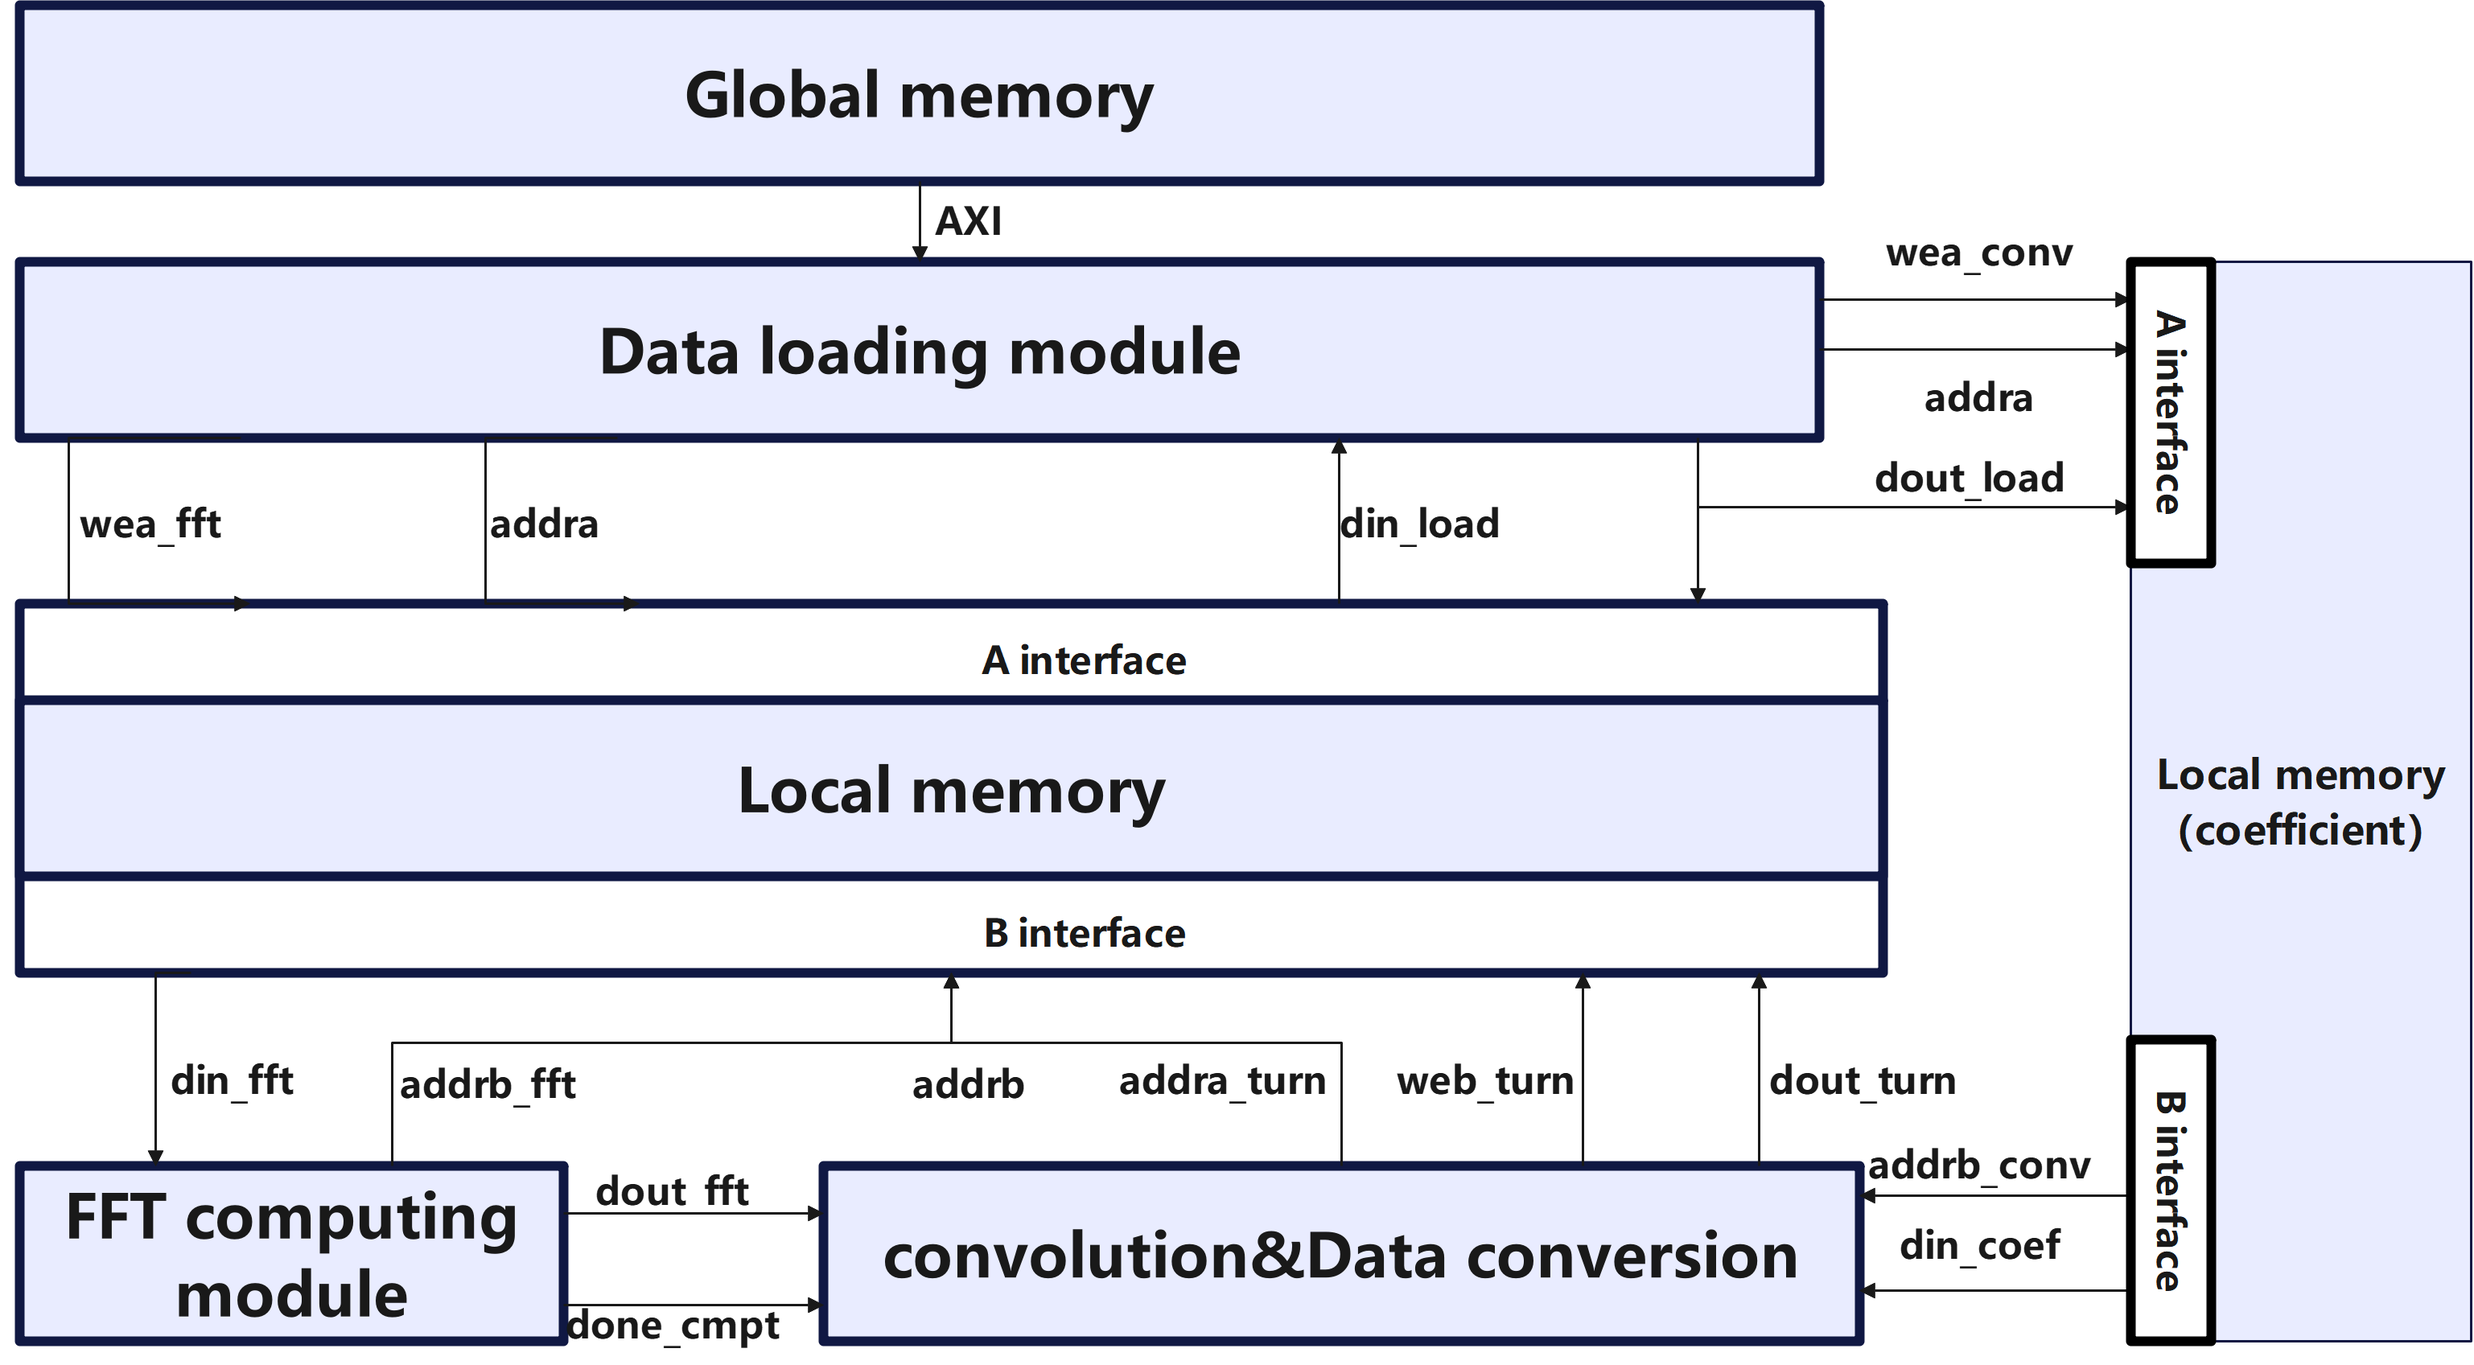
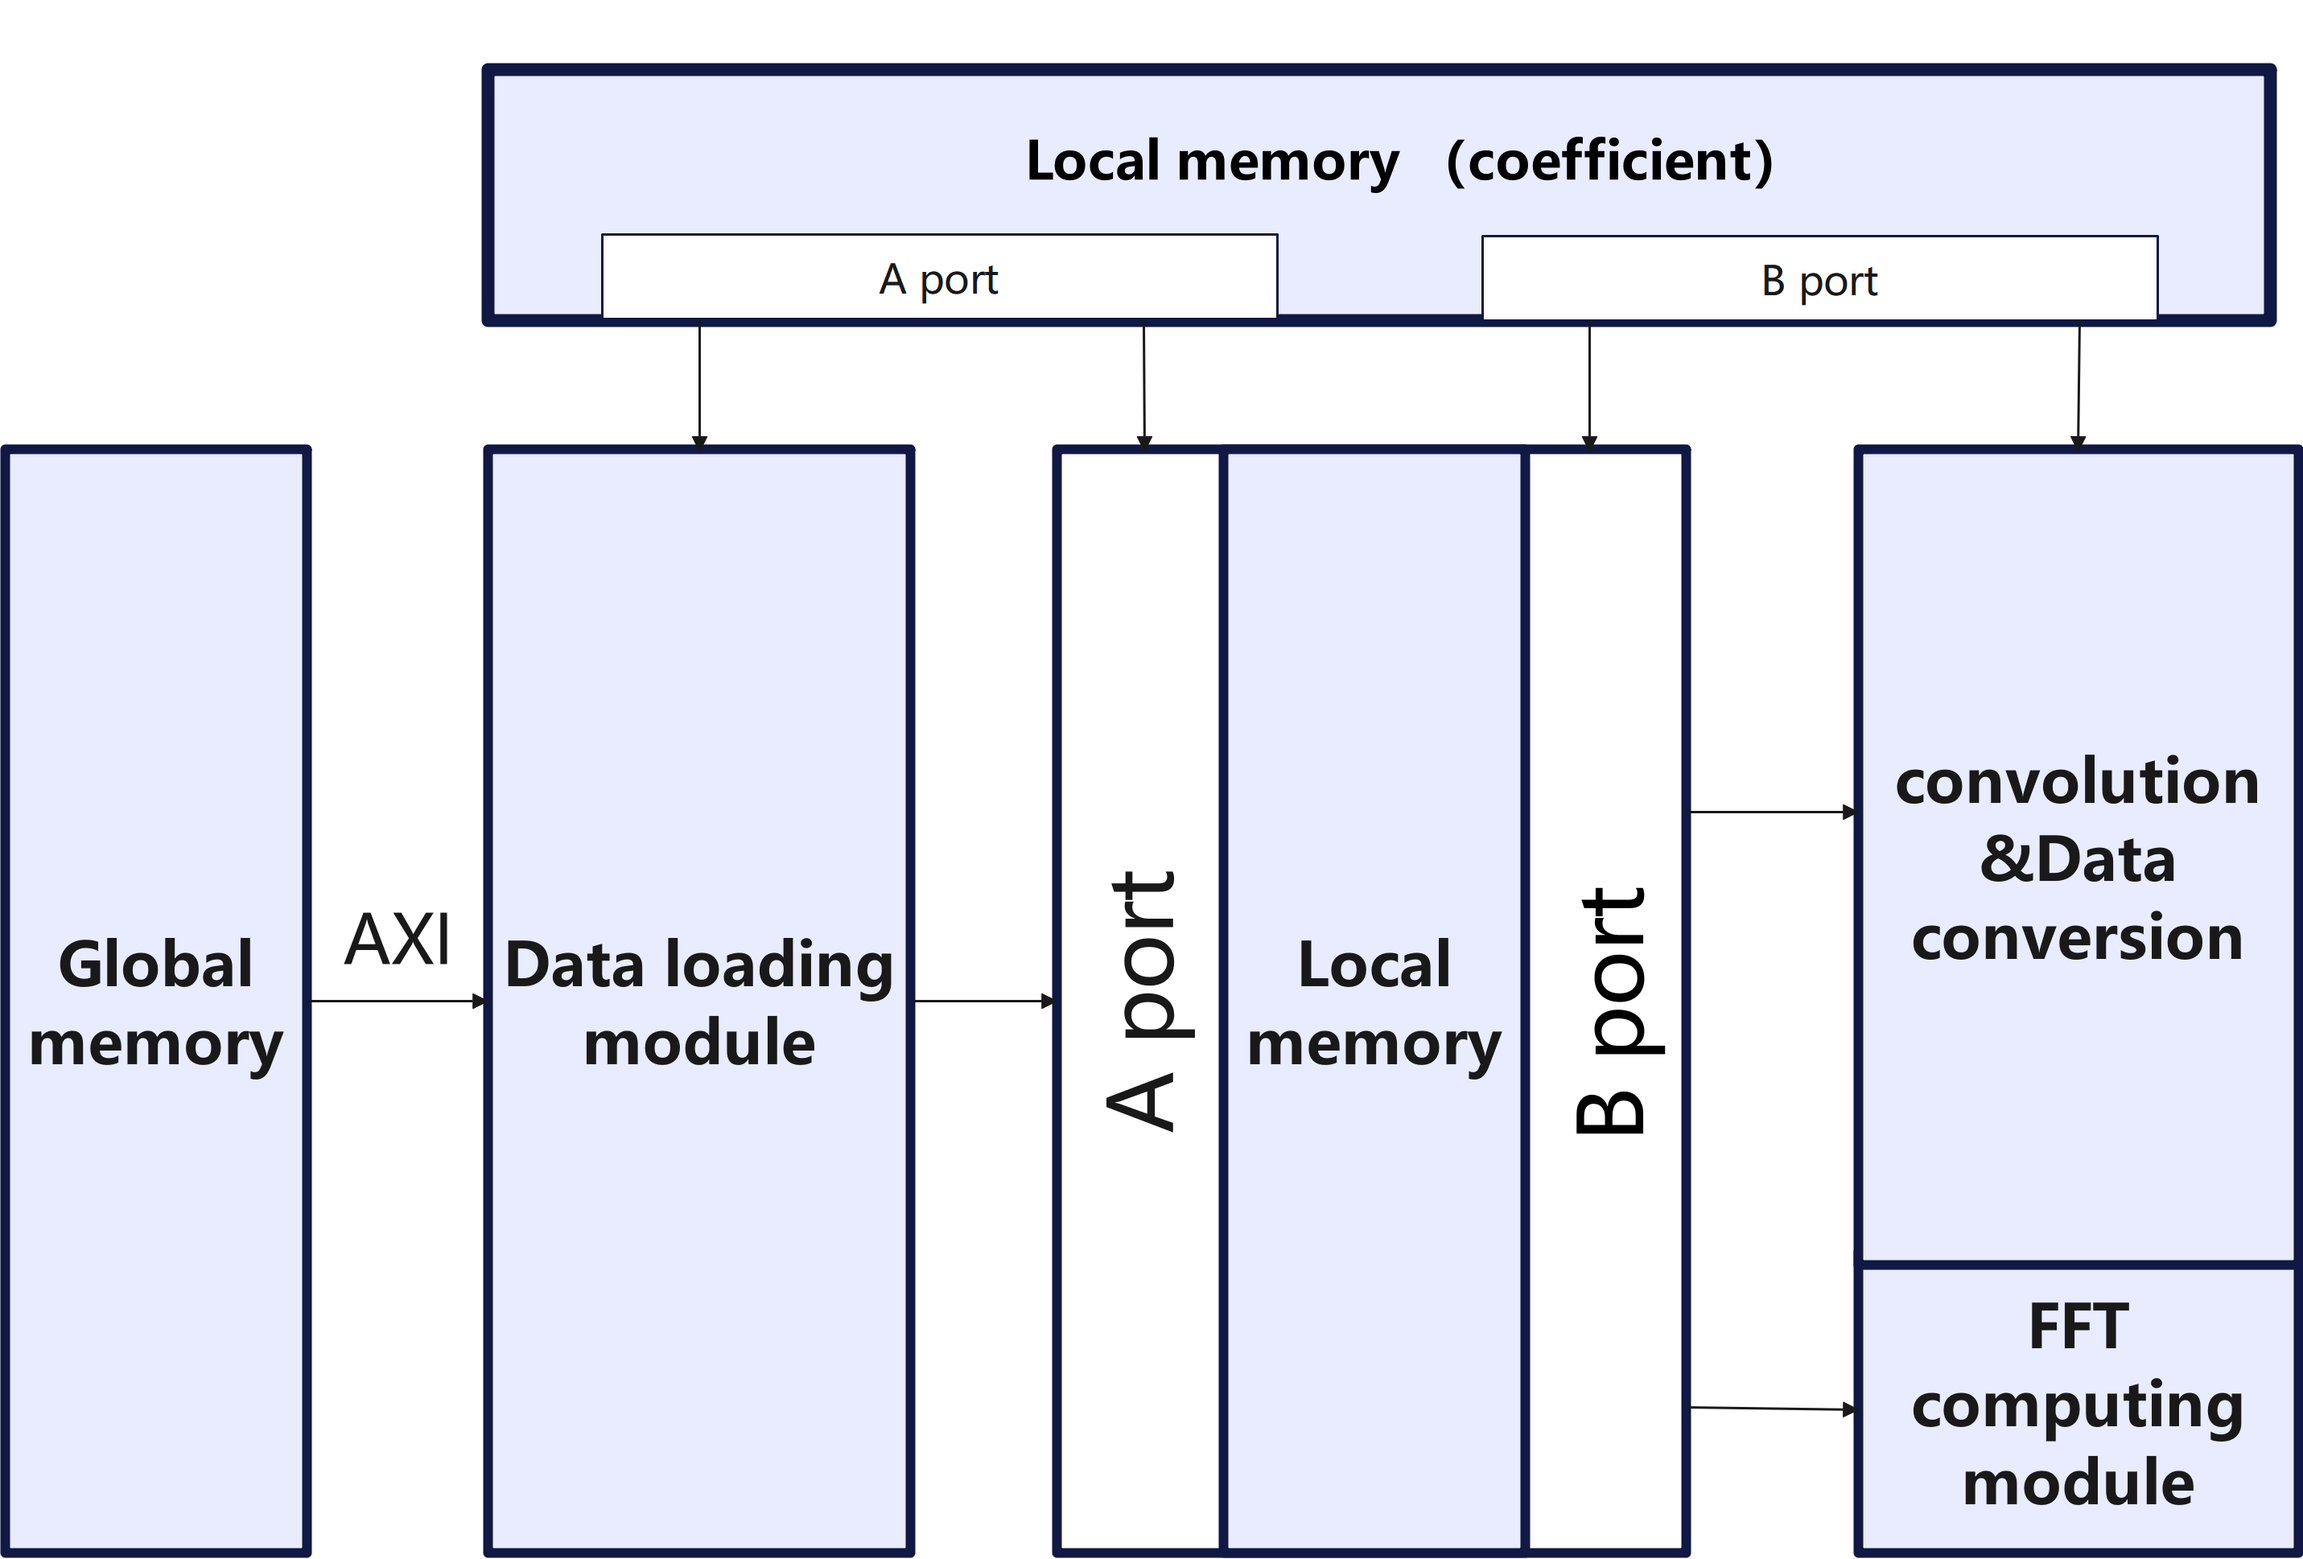
change picture
change picture

Changed region(s): [[0.0, 0.0, 1.0, 1.0]]

diff --git a/main.tex b/main.tex
@@ -47,10 +47,12 @@ computational performance, comparing it with existing memory structures.
 The optimized design of the underlying register transfer level (RTL) circuitry 
 for a single node has fundamentally enhanced the efficiency of data read and 
 write operations to and from registers, with external storage read and write 
-efficiency improved by more than 2.0 times.
+efficiency improved by more than 2.0 times.We present the co-design of 
+hardware-software co-optimized infrastructure leveraging a hybrid 
+CPU/FPGA architecture specifically engineered to accelerate 
+MD simulations using the classical CHARMM36 force field.
 The implementation of our work was demonstrated by comparing the simulation 
-results of noble gas argon and dihydrofolate reductase (DHFR) with those 
-obtained from OpenMM.
+results of noble gas argon and dihydrofolate reductase (DHFR) .
 Additionally, potential strategies for continuing to improve the efficiency of 
 MD simulations are also discussed.
 
